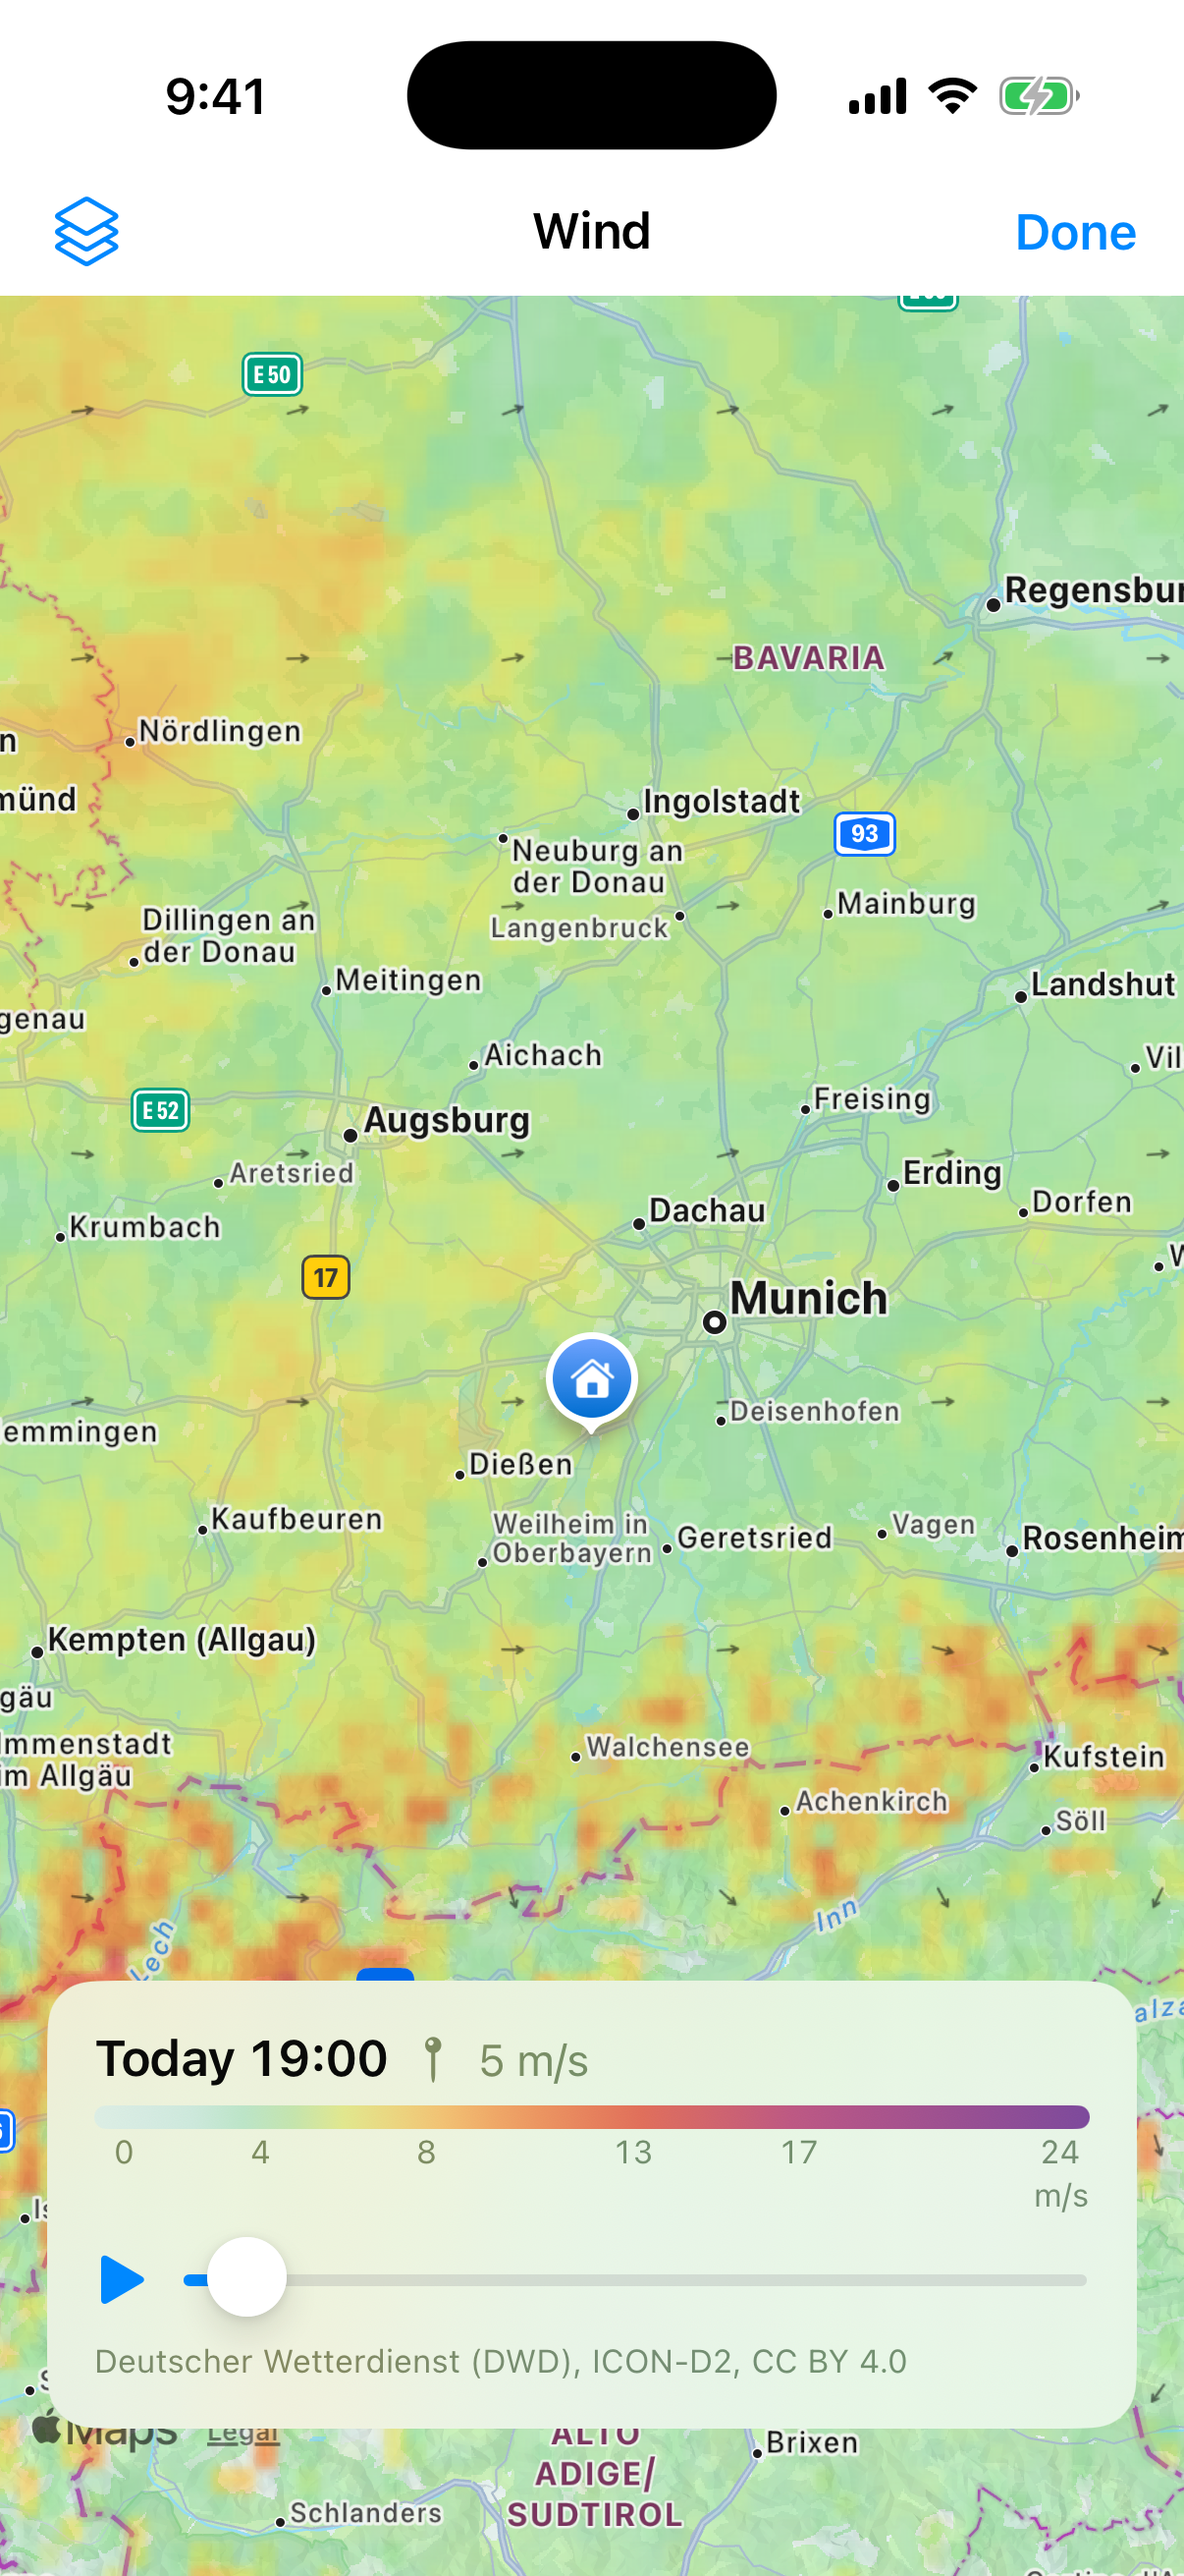
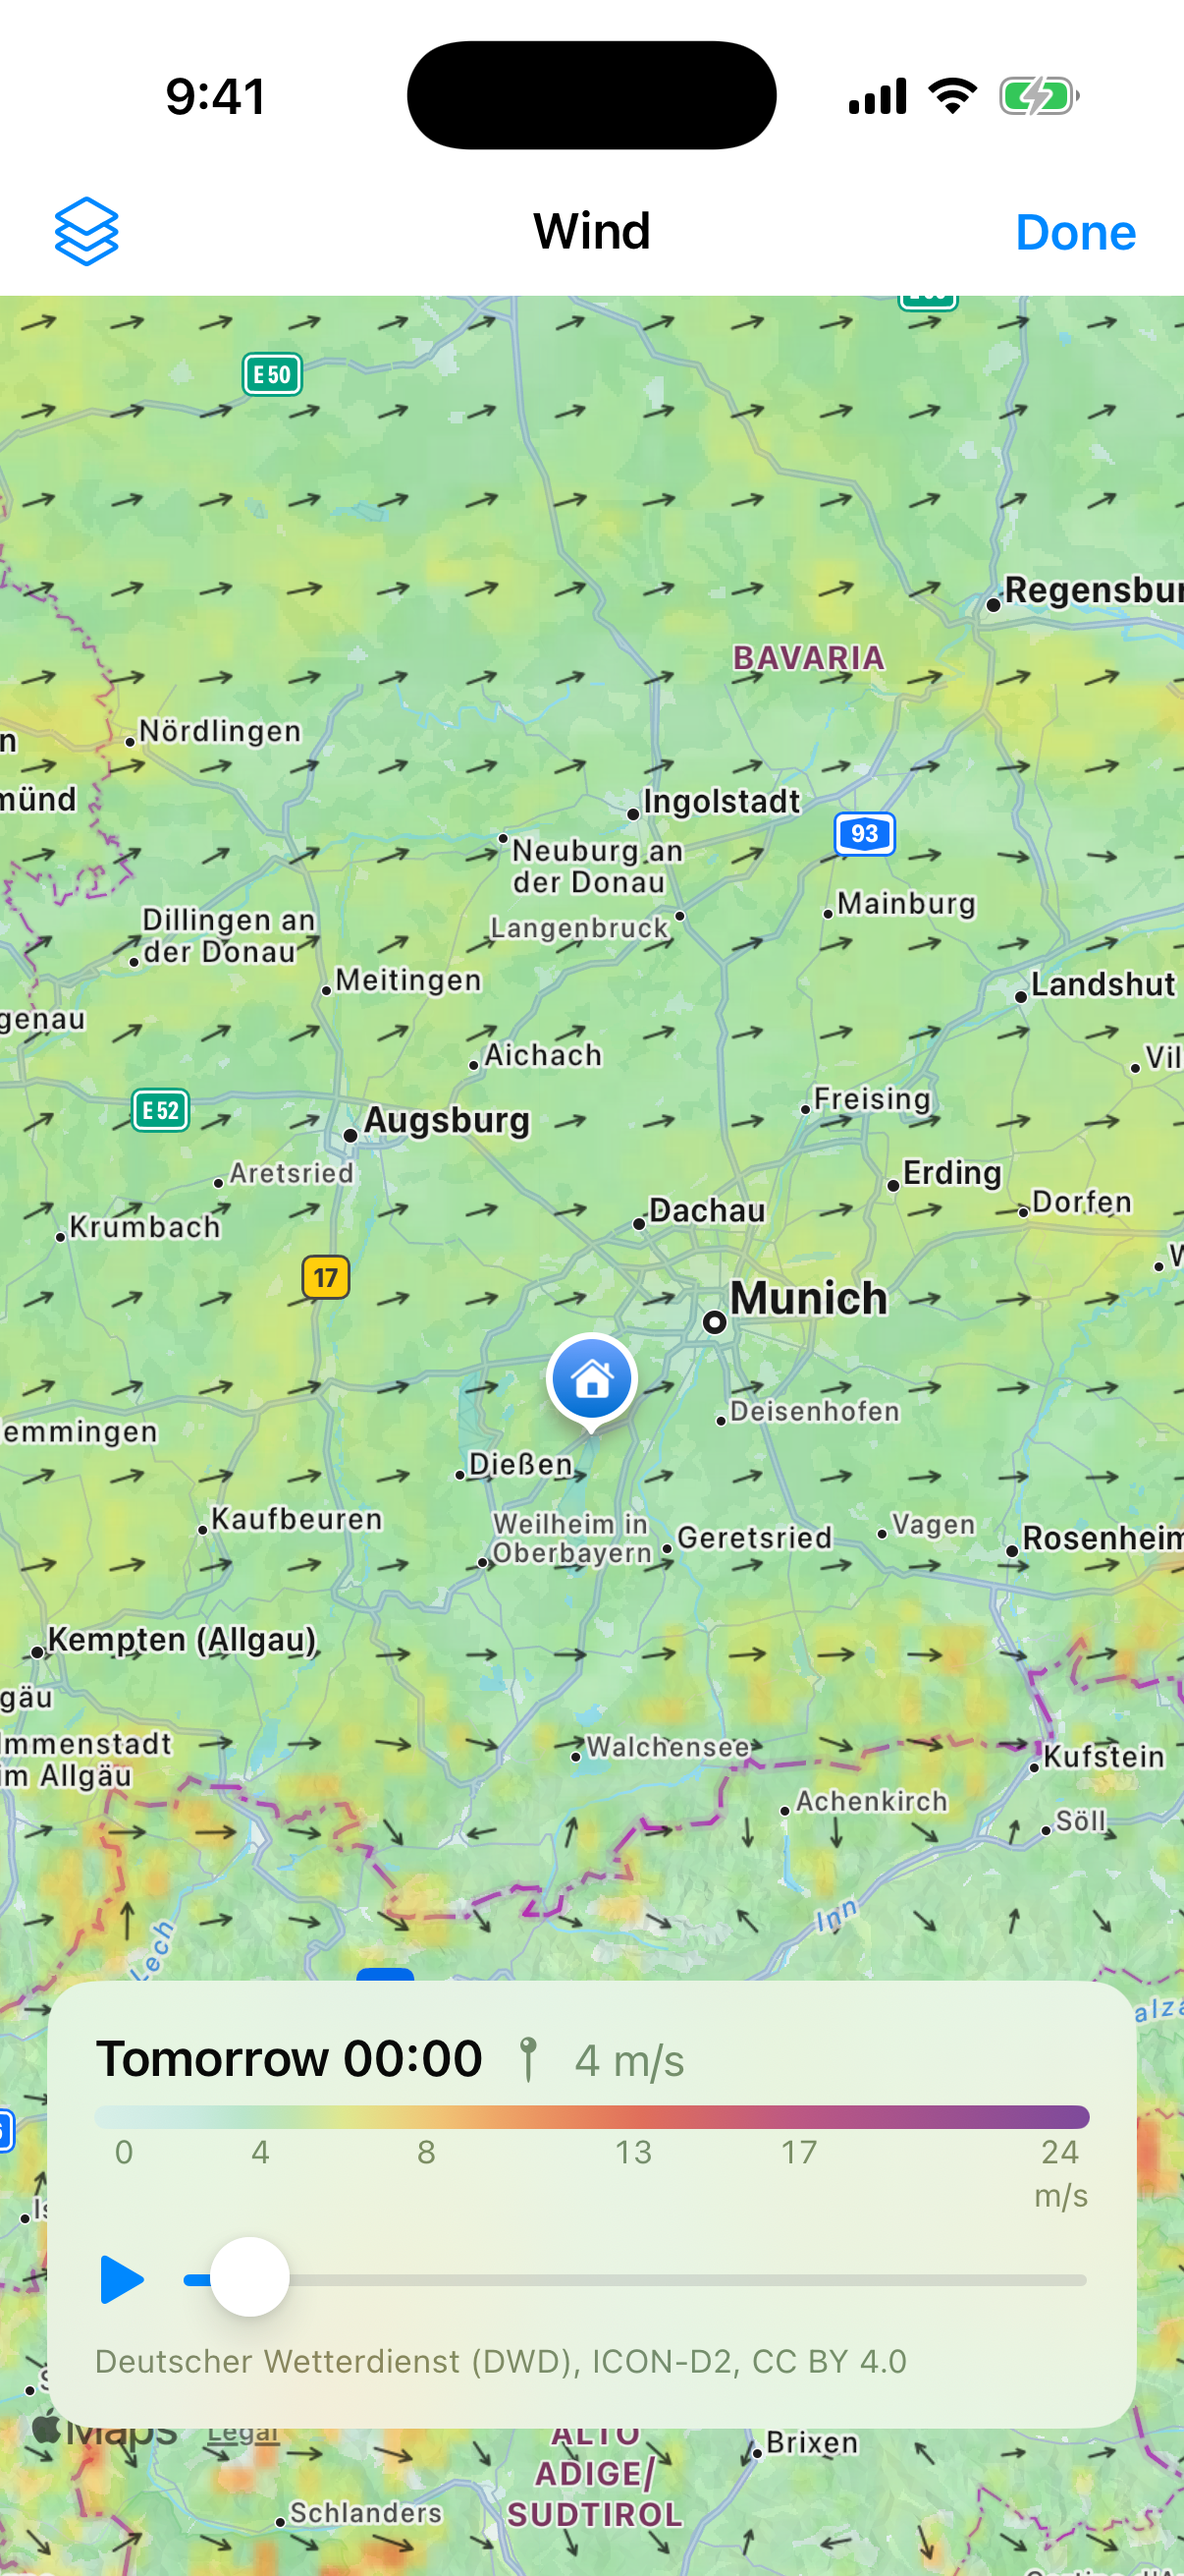
Water estimate from the air all year, honest source line, steady satellite picture, zoom-following wind arrows (#64)
- Lakes with neither a station nor a satellite reading get a water estimate carried forward from the air temperatures (waterModelC).
- The water source line no longer names a Bavarian station for such lakes.
- The satellite picture caption keeps two lines, so the picture does not jump.
- Wind map arrows on an even map-fixed grid that follows the zoom, length by wind speed.

Claude-Session: https://claude.ai/code/session_013mkJSy7niMJ6CFi9Azhjp6

diff --git a/ios/RowFrog/WeatherMap.swift b/ios/RowFrog/WeatherMap.swift
@@ -381,20 +381,15 @@ final class ModelMapStore {
     func overlay(_ layer: WeatherMapLayer, at point: Coordinate, time: Date) -> WeatherMapOverlayContent? {
         guard let value = layer.modelValue, let palette = layer.palette, let index, let tile = index.tile(for: point),
               let values = grid(tile: tile.id, value: value), let hour = index.hours.firstIndex(of: time) else { return nil }
-        var arrows: [WeatherMapArrow] = []
+        var wind: WindField?
         if layer == .wind || layer == .gust, let directions = grid(tile: tile.id, value: "windDirection") {
-            for r in 0..<directions.rows {
-                for c in 0..<directions.columns {
-                    guard let from = directions.value(hour: hour, row: r, column: c) else { continue }
-                    arrows.append(WeatherMapArrow(x: (Double(c) + 0.5) / Double(directions.columns),
-                                                  y: (Double(r) + 0.5) / Double(directions.rows), towards: from + 180))
-                }
-            }
+            // The arrows' length follows the layer shown: wind, or gusts.
+            wind = WindField(directions: directions, speeds: values, hour: hour)
         }
         return WeatherMapOverlayContent(id: "\(tile.id)|\(value)",
                                         northWest: CLLocationCoordinate2D(latitude: tile.north, longitude: tile.west),
                                         southEast: CLLocationCoordinate2D(latitude: tile.south, longitude: tile.east),
-                                        image: values.image(hour: hour, palette: palette), smooth: true, arrows: arrows)
+                                        image: values.image(hour: hour, palette: palette), smooth: true, wind: wind)
     }
 
     func load(tile: String, value: String) async {
@@ -625,7 +620,7 @@ extension RadarFrames {
     /// A live layer's picture at one of its times, for the weather map.
     func overlay(at time: Date) -> WeatherMapOverlayContent {
         WeatherMapOverlayContent(id: layer, northWest: region.northWest, southEast: region.southEast,
-                                 image: images[time]?.cgImage, smooth: false, arrows: [])
+                                 image: images[time]?.cgImage, smooth: false)
     }
 }
 
@@ -717,14 +712,46 @@ struct WeatherMapOverlayContent {
     let image: CGImage?
     /// Smoothed between grid points (model maps), or sharp (pictures from a map server).
     let smooth: Bool
-    let arrows: [WeatherMapArrow]
+    var wind: WindField? = nil
 }
 
-/// An arrow where the wind blows to, at a share of the picture's width and height.
-struct WeatherMapArrow {
-    let x: Double
-    let y: Double
-    let towards: Double
+/// The wind of one hour over a tile, for arrows at any zoom: directions at the
+/// arrow points (every arrowStep pixels) and speeds at every pixel, blended
+/// between the grid points.
+struct WindField {
+    let directions: ModelMapGrid
+    let speeds: ModelMapGrid
+    let hour: Int
+
+    /// Where the wind blows to (degrees) and its speed (m/s), at a share of the tile's width and height.
+    func sample(x: Double, y: Double) -> (towards: Double, speed: Double)? {
+        // Directions are blended as east and north parts, so opposite ones don't add up to a wrong one.
+        let parts = blend(directions, x, y) { from in
+            let r = (from + 180) * .pi / 180
+            return (sin(r), cos(r))
+        }
+        guard let parts, parts.0 != 0 || parts.1 != 0,
+              let speed = blend(speeds, x, y, { ($0, 0) })?.0 else { return nil }
+        return (atan2(parts.0, parts.1) * 180 / .pi, speed)
+    }
+
+    private func blend(_ grid: ModelMapGrid, _ x: Double, _ y: Double, _ parts: (Double) -> (Double, Double)) -> (Double, Double)? {
+        let gx = x * Double(grid.columns) - 0.5, gy = y * Double(grid.rows) - 0.5
+        let c0 = Int(gx.rounded(.down)), r0 = Int(gy.rounded(.down))
+        let tx = gx - Double(c0), ty = gy - Double(r0)
+        var sum = (0.0, 0.0), total = 0.0
+        for (dr, wy) in [(0, 1 - ty), (1, ty)] {
+            for (dc, wx) in [(0, 1 - tx), (1, tx)] {
+                let r = min(max(r0 + dr, 0), grid.rows - 1), c = min(max(c0 + dc, 0), grid.columns - 1)
+                guard let value = grid.value(hour: hour, row: r, column: c) else { continue }
+                let w = wx * wy, p = parts(value)
+                sum.0 += w * p.0
+                sum.1 += w * p.1
+                total += w
+            }
+        }
+        return total > 0 ? (sum.0 / total, sum.1 / total) : nil
+    }
 }
 
 private struct WeatherMapView: UIViewRepresentable {
@@ -805,14 +832,14 @@ final class WeatherMapArea: NSObject, MKOverlay {
 final class WeatherMapRenderer: MKOverlayRenderer {
     private var image: CGImage?
     private var smooth = false
-    private var arrows: [WeatherMapArrow] = []
+    private var wind: WindField?
 
     func show(_ content: WeatherMapOverlayContent) {
         // A frame still loading keeps the last picture rather than an empty map.
         if content.image == nil, image != nil { return }
         image = content.image
         smooth = content.smooth
-        arrows = content.arrows
+        wind = content.wind
         setNeedsDisplay()
     }
 
@@ -828,28 +855,40 @@ final class WeatherMapRenderer: MKOverlayRenderer {
             context.draw(image, in: CGRect(origin: .zero, size: rect.size))
             context.restoreGState()
         }
-        guard !arrows.isEmpty else { return }
-        // About 16 points long on screen at any zoom.
-        let length = 16 / zoomScale
+        guard let wind else { return }
+        // Arrows on an even grid fixed to the map, as on the lake map: more as the map
+        // zooms in, fewer out, each from the wind blended between the model's points.
+        let spacing = LakeRenderer.arrowSpacing / zoomScale
+        let margin = LakeRenderer.arrowLength(15) / zoomScale
+        let area = rect.intersection(self.rect(for: mapRect).insetBy(dx: -margin, dy: -margin))
+        guard !area.isNull, rect.width > 0, rect.height > 0 else { return }
         context.setStrokeColor(UIColor.black.withAlphaComponent(0.7).cgColor)
         context.setLineWidth(2 / zoomScale)
         context.setLineCap(.round)
         context.setLineJoin(.round)
-        for arrow in arrows {
-            let center = CGPoint(x: rect.minX + arrow.x * rect.width, y: rect.minY + arrow.y * rect.height)
-            let angle = arrow.towards * .pi / 180
-            // North is up: the arrow points along (sin, −cos).
-            let dx = sin(angle) * length / 2, dy = -cos(angle) * length / 2
-            let tip = CGPoint(x: center.x + dx, y: center.y + dy)
-            let tail = CGPoint(x: center.x - dx, y: center.y - dy)
-            context.move(to: tail)
-            context.addLine(to: tip)
-            let head = length * 0.35
-            for side in [-1.0, 1.0] {
-                let a = angle + .pi + side * 0.5
-                context.move(to: tip)
-                context.addLine(to: CGPoint(x: tip.x + sin(a) * head, y: tip.y - cos(a) * head))
+        var gx = (area.minX / spacing).rounded(.up) * spacing
+        while gx <= area.maxX {
+            var gy = (area.minY / spacing).rounded(.up) * spacing
+            while gy <= area.maxY {
+                defer { gy += spacing }
+                guard let sample = wind.sample(x: (gx - rect.minX) / rect.width, y: (gy - rect.minY) / rect.height),
+                      sample.speed >= 0.5 else { continue }
+                // Longer in stronger wind, as on the lake map.
+                let length = LakeRenderer.arrowLength(sample.speed) / zoomScale
+                let angle = sample.towards * .pi / 180
+                // North is up: the arrow points along (sin, −cos).
+                let dx = sin(angle) * length / 2, dy = -cos(angle) * length / 2
+                let tip = CGPoint(x: gx + dx, y: gy + dy)
+                context.move(to: CGPoint(x: gx - dx, y: gy - dy))
+                context.addLine(to: tip)
+                let head = min(length * 0.35, 8 / zoomScale)
+                for side in [-1.0, 1.0] {
+                    let a = angle + .pi + side * 0.5
+                    context.move(to: tip)
+                    context.addLine(to: CGPoint(x: tip.x + sin(a) * head, y: tip.y - cos(a) * head))
+                }
             }
+            gx += spacing
         }
         context.strokePath()
     }

diff --git a/ios/RowFrog/Models.swift b/ios/RowFrog/Models.swift
@@ -367,12 +367,12 @@ struct ModelChoice: Codable, Hashable, Identifiable {
 
 extension ClubForecast {
     /// Without a station: the newest satellite reading carried forward to
-    /// today with the air temperatures, else the ice model's water
-    /// temperature (cold months only), worked out from the air temperatures
-    /// of the last weeks.
+    /// today with the air temperatures, else the water worked out from the air
+    /// temperatures of the last weeks (the backend's, or the ice model's).
     var estimatedWaterC: Double? {
         guard waterTemperature == nil else { return nil }
         if let waterEstimate { return waterEstimate.celsius }
+        if let waterModelC { return waterModelC }
         guard let ice, ice.basis == "model" || ice.basis == "satellite" else { return nil }
         return ice.waterTemperatureC
     }
@@ -447,6 +447,9 @@ struct ClubForecast: Codable, Hashable {
     var refresh: Refresh? = nil
     /// Without a station, for lakes the satellites see; missing from older backends.
     var waterEstimate: WaterEstimate? = nil
+    /// Without a station or a recent satellite reading: worked out from the air
+    /// temperatures alone, all year; missing from older backends.
+    var waterModelC: Double? = nil
 
     /// The backend publishes every half hour; after this the forecast counts as out of date.
     static let staleAfter: TimeInterval = 3 * 3600

diff --git a/ios/RowFrog/ConditionsCard.swift b/ios/RowFrog/ConditionsCard.swift
@@ -1465,8 +1465,10 @@ extension ConditionDetail {
                 : tr("Copernicus Land Monitoring Service, Lake Surface Water Temperature (Sentinel-3), carried forward to today with the air temperatures.")
         } else if now == nil, estimate != nil {
             source = tr("Calculated by the app from the air temperatures of the last weeks, not measured.")
+        } else if let now {
+            source = tr("%@, the nearest station on this water.", (now.station ?? WaterStation()).operatorName)
         } else {
-            source = tr("%@, the nearest station on this water.", (now?.station ?? WaterStation()).operatorName)
+            source = tr("No station measures the water of this lake, and no satellite has seen it clearly in the last 30 days.")
         }
         return ConditionDetail(
             value: estimate.map { "≈ " + Format.degrees($0, digits: 0) } ?? Format.degrees(now?.celsius, digits: 1),

diff --git a/ios/RowFrog/SatellitePicture.swift b/ios/RowFrog/SatellitePicture.swift
@@ -384,9 +384,12 @@ struct SatelliteCaption: View {
     var body: some View {
         VStack(alignment: .leading, spacing: 2) {
             HStack(alignment: .firstTextBaseline, spacing: 4) {
+                // Always two lines high, so the picture above keeps its size when
+                // switching between pictures whose line wraps and whose doesn't.
                 Text(line)
                     .font(.footnote)
                     .foregroundStyle(.secondary)
+                    .lineLimit(2, reservesSpace: true)
                 Button { explaining = true } label: {
                     Image(systemName: "info.circle")
                         .font(.footnote)

diff --git a/ios/RowFrog/Localization.swift b/ios/RowFrog/Localization.swift
@@ -192,6 +192,7 @@ enum German {
         "Dry": "Trocken",
         "Measured %@": "Gemessen %@",
         "No lake station": "Keine Messstation im See",
+        "No station measures the water of this lake, and no satellite has seen it clearly in the last 30 days.": "Keine Messstelle misst das Wasser dieses Sees, und kein Satellit hat ihn in den letzten 30 Tagen klar gesehen.",
         "No fog": "Kein Nebel",
         "Next 48 hours": "Nächste 48 Stunden",
         "Time": "Uhrzeit",

diff --git a/backend/rowfrog/api.py b/backend/rowfrog/api.py
@@ -560,6 +560,11 @@ async def _club_forecast(club_id: str, picked: weather_models.Choice | None) -> 
             today = now.astimezone(LOCAL).date()
             temps = await _air_days(client, lake, today)
             estimate = water_estimate.estimate(_satellite_water[lake.id], temps or [], today)
+        # Neither a station nor a recent satellite reading: worked out from the air alone, all year.
+        water_model_c = None
+        if water is None and estimate is None and lake.kind == "lake":
+            today = now.astimezone(LOCAL).date()
+            water_model_c = water_estimate.from_air(await _air_days(client, lake, today) or [], today)
         ice_estimate = await _ice(client, lake, water.celsius if water else None, now, estimate.celsius if estimate else None)
     ice_by_day = {} if ice_estimate is None else {d.day: Light(ice.STATUS_LIGHT[d.status]) for d in ice_estimate.days}
     weather = _from_now(weather, now)
@@ -585,6 +590,7 @@ async def _club_forecast(club_id: str, picked: weather_models.Choice | None) -> 
         },
         # Without a station: the newest satellite reading carried forward to today (water_estimate.py).
         "waterEstimate": _water_estimate_json(estimate),
+        "waterModelC": water_model_c,
         "warnings": warnings_block,
         "ice": _ice_json(ice_estimate),
         # A picked model gets its own weather credit; the hours past its reach stay DWD's.

diff --git a/backend/rowfrog/water_estimate.py b/backend/rowfrog/water_estimate.py
@@ -47,6 +47,16 @@ def carry(start: date, celsius: float, temps: list[ice.DayTemperature], until: d
     return water
 
 
+def from_air(temps: list[ice.DayTemperature], today: date) -> float | None:
+    """Without any reading: the month's typical water temperature at the first of
+    `temps` (about 92 days back), carried forward to today with the air. Less sure
+    than a reading (about 2-3 °C off), so the app marks it as worked out from the air."""
+    if not temps:
+        return None
+    first = temps[0]
+    return round(carry(first.day, ice.TYPICAL_WATER_C[first.day.month], temps, today), 1)
+
+
 def estimate(readings: list, temps: list[ice.DayTemperature], today: date) -> WaterEstimate | None:
     """From the newest reading (`readings` oldest first) carried forward to today; None without a recent one."""
     recent = [r for r in readings if 0 <= (today - r.day).days <= MAX_AGE_DAYS]

diff --git a/backend/tests/test_water_estimate.py b/backend/tests/test_water_estimate.py
@@ -132,3 +132,11 @@ def test_club_forecast_without_station_gets_the_satellite_estimate(monkeypatch):
     other = TestClient(api.app).get("/clubs/mrc-1880/forecast").json()
     assert other["waterEstimate"] is None
     _reset()
+
+
+def test_from_air_moves_the_typical_value_towards_the_air():
+    # Starts at the month's typical value and follows a cold spell down, never below 0 °C.
+    temps = _air(60, 2.0, date(2026, 10, 1))
+    water = water_estimate.from_air(temps, date(2026, 11, 30))
+    assert 2.0 < water < ice.TYPICAL_WATER_C[10]
+    assert water_estimate.from_air([], DAY) is None
